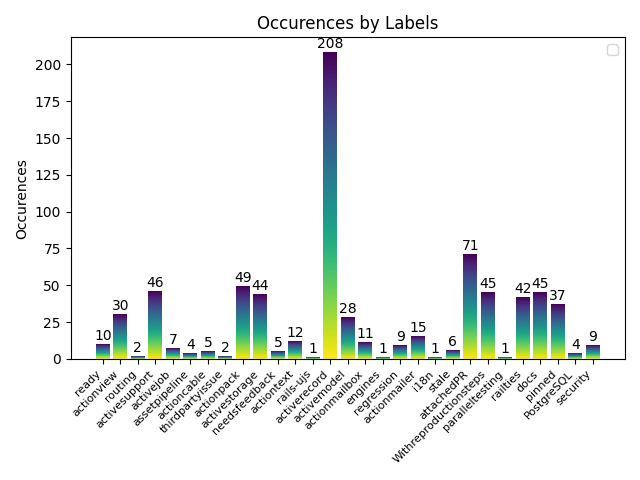
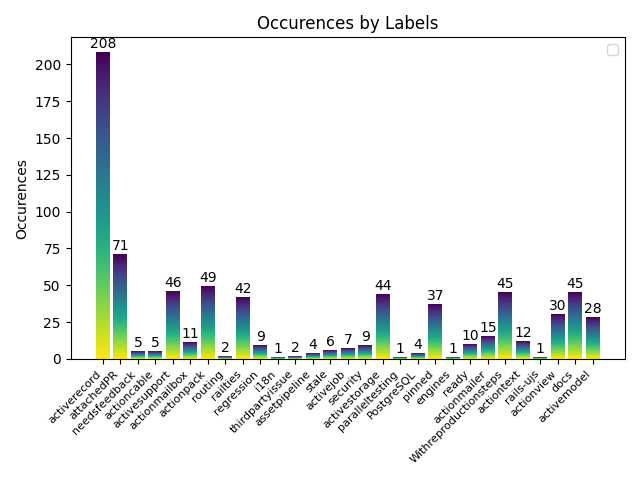
Updated: period devision

Changed region(s): [[0.125, 0.0625, 0.9375, 0.75], [0.0625, 0.7812, 0.9375, 0.9688]]

diff --git a/dataTreator/statTreatments.py b/dataTreator/statTreatments.py
@@ -100,13 +100,24 @@ dict_closed[StratingPeriodDate[0:7] + "-" + dateToString(datetime.strptime(rows[
                                             0:7]] = counter_closed
 dict_comment[
     StratingPeriodDate[0:7] + "-" + dateToString(datetime.strptime(rows[0][6], "%Y-%m-%dT%H:%M:%SZ"))[0:7]] = nb_comment
-print(globalnm)
-print(dictionnary.keys())
 occurences = collections.Counter(labels_general_list)
 label_set = set(labels_general_list)
 occurences_users = collections.Counter(users_list)
 set_user = set(users_list)
-x = np.arange(len(occurences))  # the label locations
+x = np.arange(len(occurences))
+id_user =0
+max = 0
+nb_one = 0
+for i in (set_user):
+    if occurences_users[i]>max:
+        max = occurences_users[i]
+        id_user = i
+    if occurences_users[i]== 1:
+        nb_one+=1
+nb_one= float(nb_one/500)
+print(id_user)
+print(max)
+print(nb_one)
 width = 0.35
 figLabel, axLabel = pyplot.subplots()
 c = ['red', 'yellow', 'black', 'blue', 'orange']
@@ -121,7 +132,7 @@ gradientbars(LabelBar)
 figLabel.tight_layout()
 pyplot.savefig('../dataPlot/OccurencesByLabels.png')
 figUsers, axUsers = pyplot.subplots()
-UserPlot = axUsers.plot([j for j in set_user], [occurences_users[i] for i in (set_user)], color='#3E7DCC')
+UserPlot = axUsers.plot([j for j in set_user], [occurences_users[i] for i in (set_user)], color='#3E7DCC', label = 'The user "'+ str(id_user)+'" have reported '+str(max)+ ' issues \n % users with only one issue :'+str(nb_one))
 axUsers.set_ylabel('Number of issues')
 axUsers.set_xlabel('User ID')
 axUsers.set_title('Reporting issues By users')
